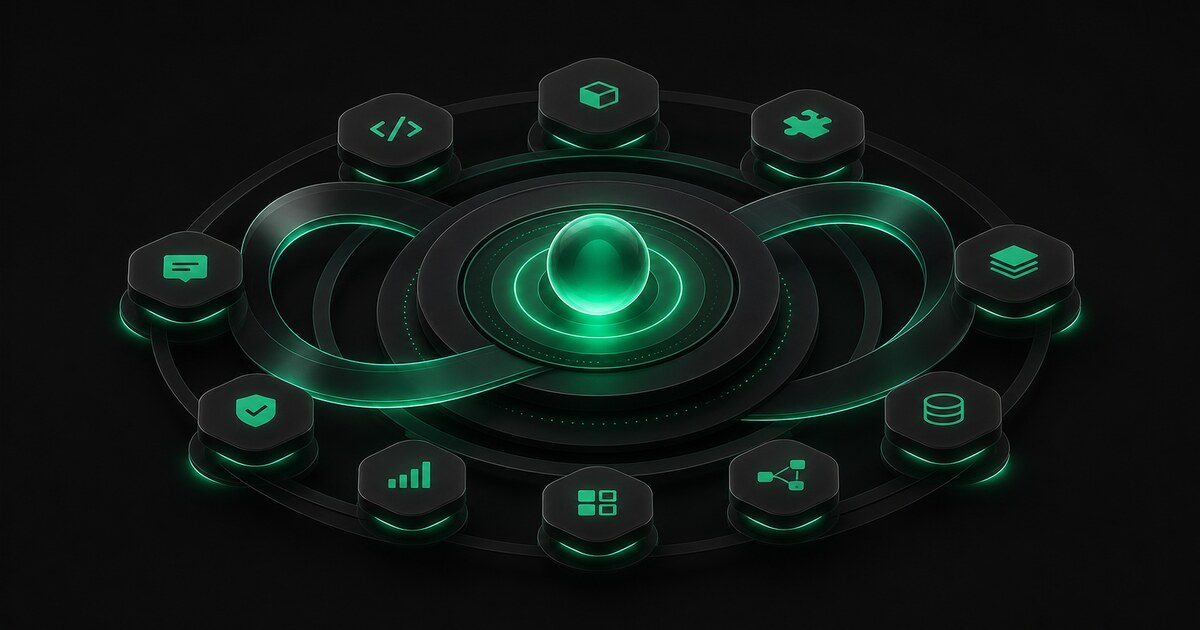
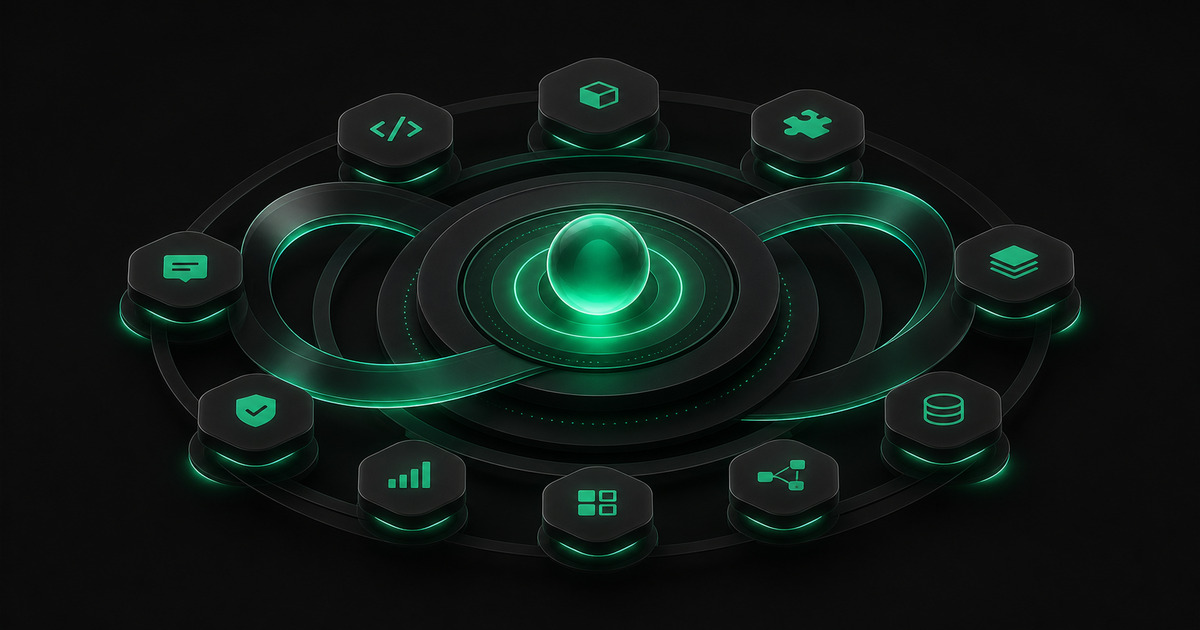
Switch accent to green #22c55e; blog thumbnails keep native aspect at full quality
- Accent moves from emerald to green-500 (#22c55e) on dark, green-700
  (#15803d) on light for AA; accent tints updated to match.
- Blog-list thumbnails now render each cover at its native aspect with
  no crop (was a zoom-crop to card height, which looked coarse).
- Covers re-encoded from lossless PNG at q92 with full 4:4:4 chroma so
  the fine app-tile detail stays crisp as thumbnails and social cards.

Changed region(s): [[0.8325, 0.4222, 0.8633, 0.4524], [0.7708, 0.6333, 0.8017, 0.6635], [0.4933, 0.7841, 0.5242, 0.8143]]

diff --git a/_sass/_variables.scss b/_sass/_variables.scss
@@ -8,32 +8,32 @@
 // === Custom Theme Colors ===
 // The site shares its visual language with Möbius (the self-hosted
 // agent project): true charcoal surfaces, one restrained accent, a
-// mono face for code and metadata. The accent is emerald rather than
-// Möbius's purple — the green analogue of the same system. Dark values
-// mirror Möbius's theme.js DARK_COLORS; light mirrors its warm LIGHT_COLORS.
-// Emerald-500 #10b981 clears WCAG AA on every dark surface here (7.6:1
-// on #0d0d0d, 7.0:1 on #171717); on light backgrounds the deeper
-// emerald-600 #059669 keeps links AA.
+// mono face for code and metadata. The accent is a vivid green rather
+// than Möbius's purple — the green analogue of the same system. Dark
+// values mirror Möbius's theme.js DARK_COLORS; light mirrors its warm
+// LIGHT_COLORS. Green-500 #22c55e clears WCAG AA on every dark surface
+// here (~8:1 on #0d0d0d); on light backgrounds the deeper green-700
+// #15803d keeps links AA.
 
-// Light Theme (warm neutral + emerald)
+// Light Theme (warm neutral + green)
 $theme-light-bg: #f4f2ef; // warm off-white
 $theme-light-surface: #ffffff; // cards read by contrast, not just shadow
 $theme-light-text: #1c1b1a; // near-black ink (never pure black)
 $theme-light-text-light: #6b6864; // ~5.4:1 muted
-$theme-light-accent: #059669; // emerald-600 — AA on light
-$theme-light-accent-bright: #10b981;
-$theme-light-secondary: #047857; // emerald-700 for hover/secondary
+$theme-light-accent: #15803d; // green-700 — AA on light
+$theme-light-accent-bright: #16a34a; // green-600
+$theme-light-secondary: #166534; // green-800 for hover/secondary
 
-// Dark Theme (true charcoal + emerald — the hero)
+// Dark Theme (true charcoal + green — the hero)
 $theme-dark-bg: #0d0d0d; // page
 $theme-dark-bg-card: #171717; // card / surface
 $theme-dark-bg-elevated: #1f1f1f; // raised surface
 $theme-dark-border: #2a2a2a; // hairline border
 $theme-dark-text: #ececec; // off-white
 $theme-dark-text-light: #a8a8a8; // ~6.1:1 muted
-$theme-dark-accent: #10b981; // emerald-500 — 7.6:1 on #0d0d0d
-$theme-dark-accent-bright: #34d399; // emerald-400 for hover/links
-$theme-dark-secondary: #34d399;
+$theme-dark-accent: #22c55e; // green-500 — ~8:1 on #0d0d0d
+$theme-dark-accent-bright: #4ade80; // green-400 for hover/links
+$theme-dark-secondary: #4ade80;
 
 // Shared type stacks (match Möbius: Inter + JetBrains Mono)
 $font-sans:

diff --git a/_sass/_themes.scss b/_sass/_themes.scss
@@ -28,7 +28,7 @@
   /* Accent colors */
   --global-theme-color: #{$theme-light-accent};
   --global-theme-color-bright: #{$theme-light-accent-bright};
-  --global-accent-tint: rgba(5, 150, 105, 0.08);
+  --global-accent-tint: rgba(21, 128, 61, 0.08);
   --global-hover-color: #{$theme-light-secondary};
   --global-hover-text-color: #{$white-color};
   --global-secondary-accent-color: #{$theme-light-secondary};
@@ -97,7 +97,7 @@ html[data-theme="dark"] {
   /* Accent colors */
   --global-theme-color: #{$theme-dark-accent};
   --global-theme-color-bright: #{$theme-dark-accent-bright};
-  --global-accent-tint: rgba(16, 185, 129, 0.1);
+  --global-accent-tint: rgba(34, 197, 94, 0.1);
   --global-hover-color: #{$theme-dark-accent-bright};
   --global-secondary-accent-color: #{$theme-dark-secondary};
 

diff --git a/_pages/blog.md b/_pages/blog.md
@@ -183,7 +183,7 @@ pagination:
       <img
         class="card-img"
         src="{{ post.thumbnail | relative_url }}"
-        style="object-fit: cover; width: 100%; aspect-ratio: 16 / 9; border-radius: 0.5rem;"
+        style="width: 100%; height: auto; border-radius: 0.5rem;"
         loading="lazy"
         alt="{{ post.title }}"
       >